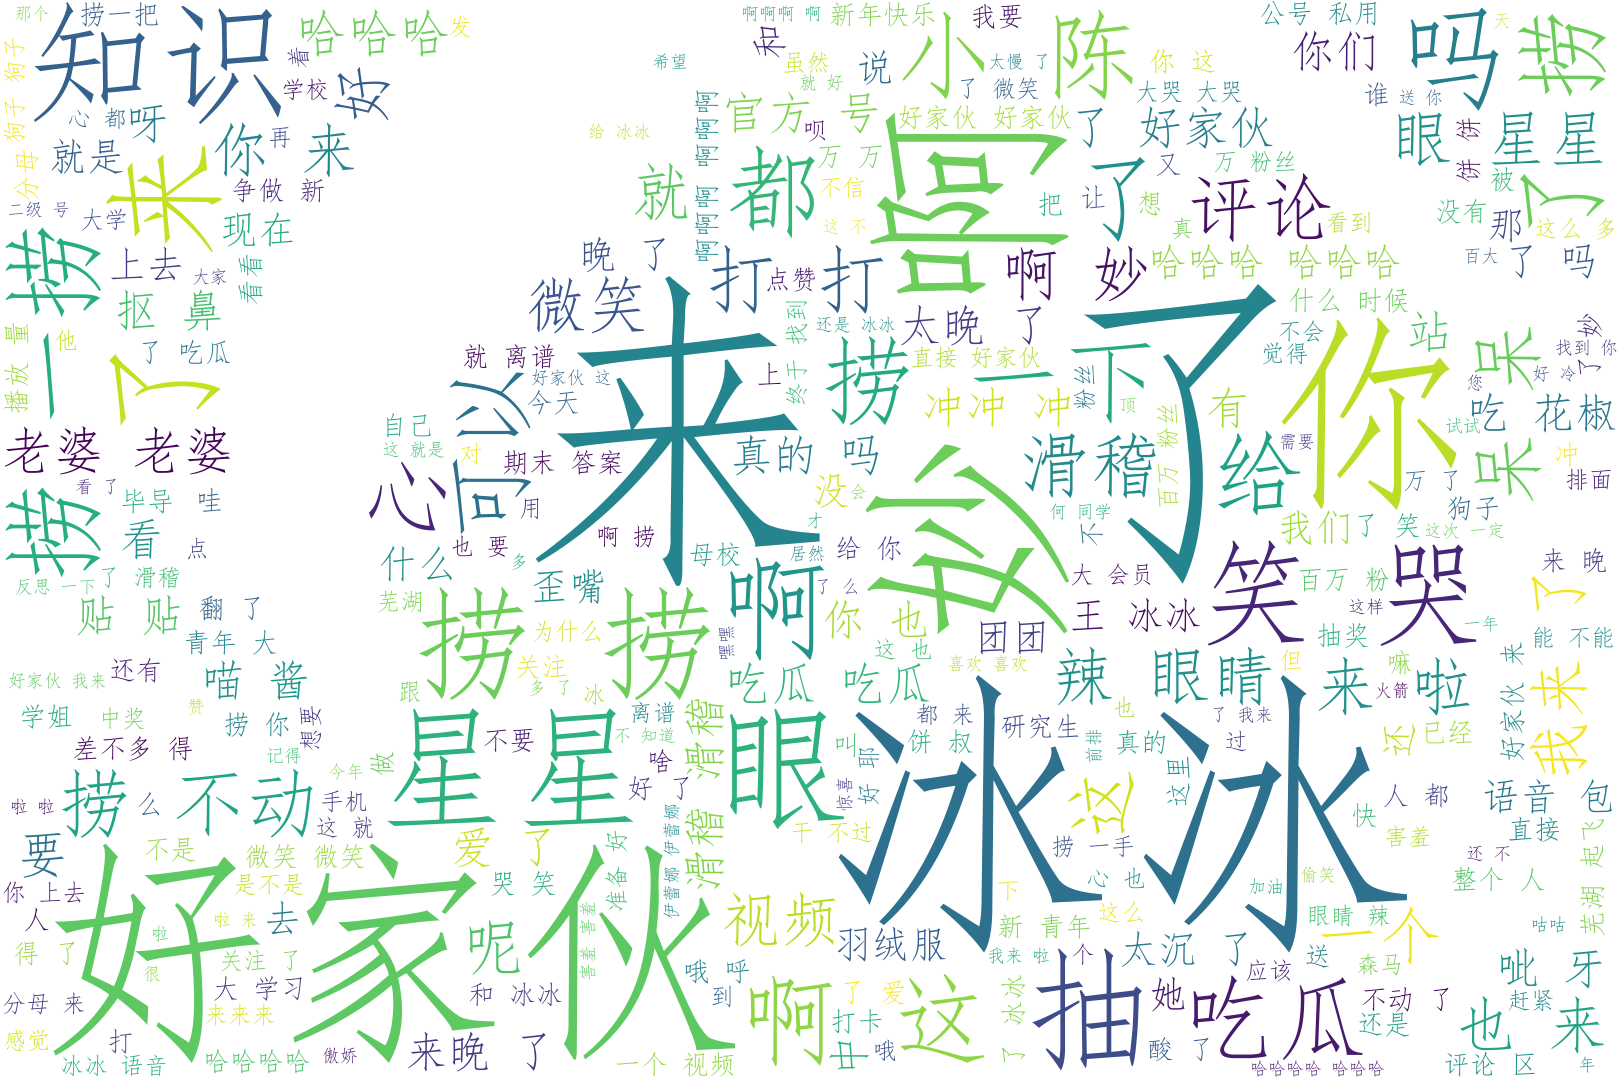
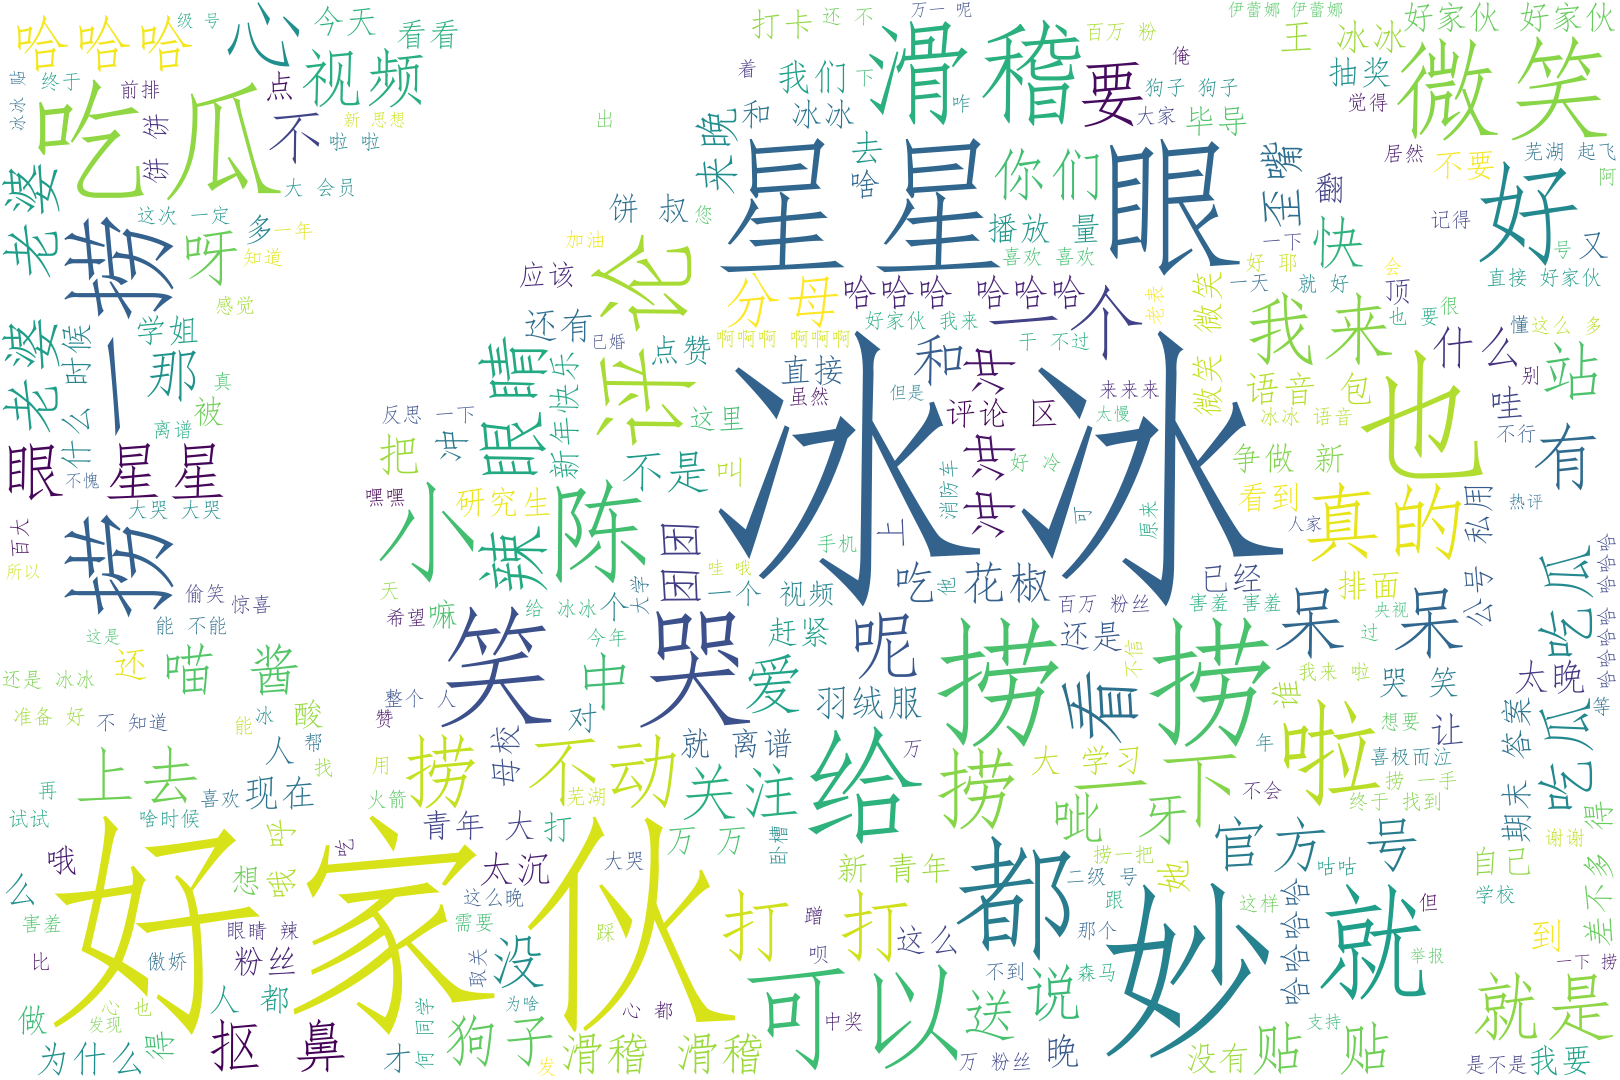
finish generating wordcloud figure

Changed region(s): [[0.0, 0.0, 1.0, 1.0], [0.4012, 0.0306, 0.4321, 0.0611]]

diff --git a/code/wordCloud.py b/code/wordCloud.py
@@ -31,7 +31,9 @@ def generate_wordCloud(textPath, wordCloudPath, ice_mask):
         background_color='white',
         width=1366,height=768,
         mask=ice_mask,
-        stopwords=STOPWORDS.update(['中奖率','录取','通知书','吧','我','热词','系列','热词系列',' ','增加','拉低','怎么','这个','回复','哈哈','的','在','抽个','是']),
+        stopwords=STOPWORDS.update(['中奖率','录取','通知书','吧','我','热词','系列','热词系列',' ',
+                                    '增加','拉低','怎么','这个','回复','哈哈','的','在','抽个','是',
+                                    '啊','这','吗','你','了','来','抽','知识']),
         font_path='C:\Windows\Fonts\simfang.ttf',
         max_words=300
     )

diff --git a/code/wordCrawl.py b/code/wordCrawl.py
@@ -45,7 +45,7 @@ def getAllVideoList(uid, size, page, mode):
 
 '''
 获取某视频下的评论
-TODO 添加视频av号作为参数
+TODO 添加视频av号作为参数，循环爬取?
 '''
 def getComment():
     # # 循环爬取每个视频的评论
